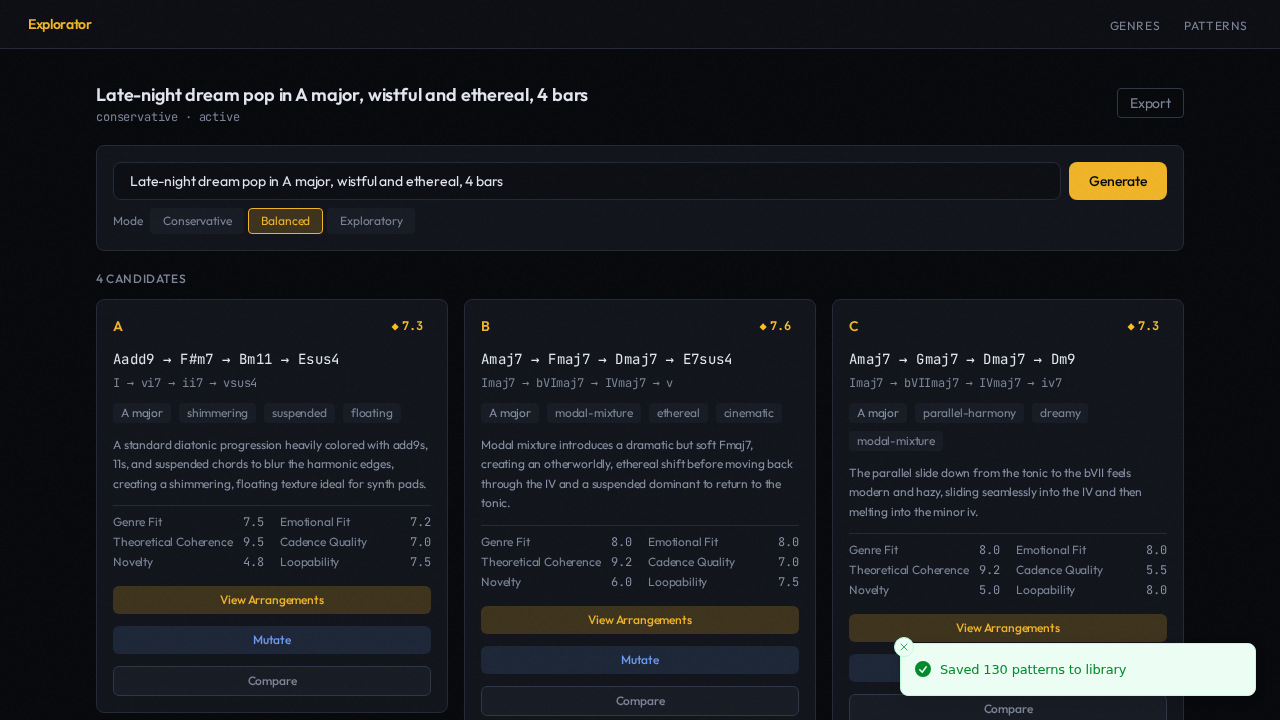
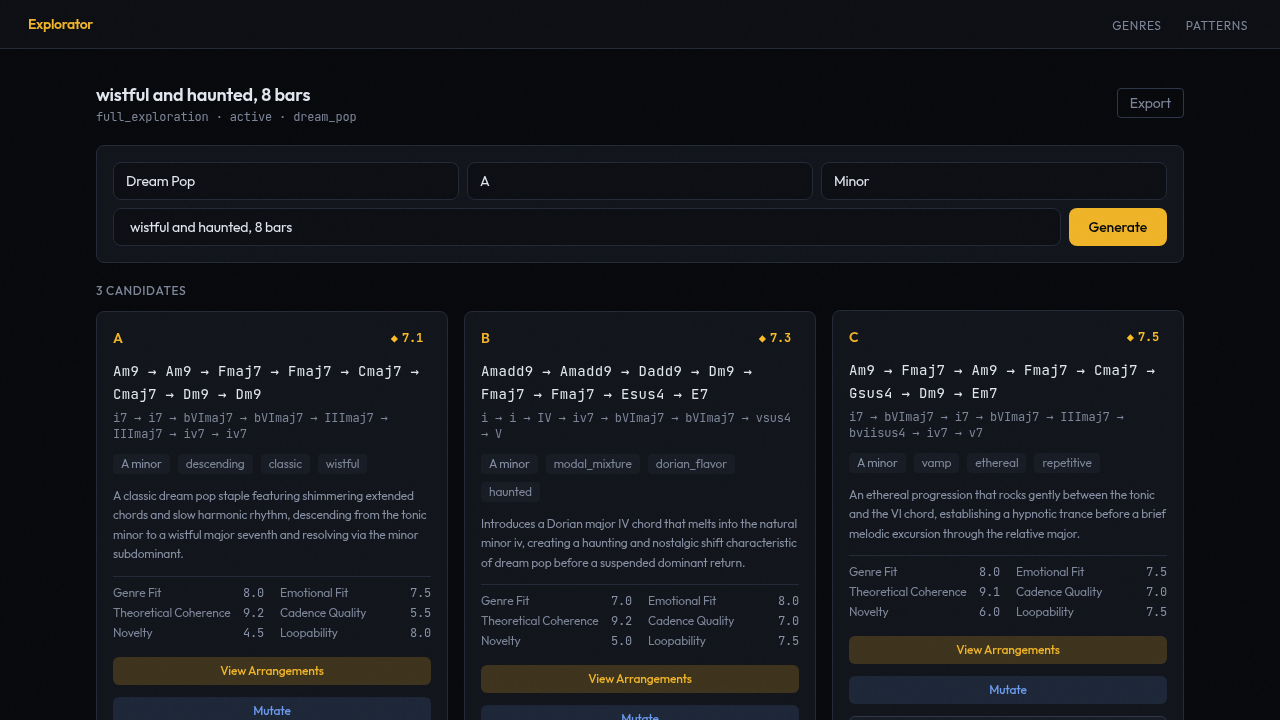
docs: refresh UX for genre/key/mode pickers + limited mode (#22)
The generation form changed (PR #21): the conservative/balanced/
exploratory mode toggle is gone — sessions now start by picking a
genre, key, and mode with an optional mood prompt. Update the README
flow text and screenshots to match.

- README: rewrite the "Create" bullet and "A first session" steps;
  drop the removed mode toggle.
- Regenerate 01-session-workspace.png (now shows the picker row).
- Add 00-dashboard.png (the new start-a-session form).
- Add 07-limited-mode.png (the Neo4j-optional limited-mode banner).

diff --git a/README.md b/README.md
@@ -7,11 +7,13 @@ A creative copilot for music producers. Generate chord progressions, realize the
 ## What it does
 
 **Create**
-- Translate creative prompts (*"dream pop in A major, wistful and haunted"*) into structured musical constraints
+- Choose genre, key, and mode up front, then steer with an optional mood prompt (*"wistful and haunted, 8 bars"*) — translated into structured musical constraints
 - Generate candidate chord progressions across 40+ genre profiles via Gemini Pro
 - Realize progressions into arrangements: voicings (open, close, drop-2, drop-3), genre-specific bass modes, groove patterns, optional melodic complement
 - Score arrangements across 12 dimensions (deterministic music theory + Gemini)
 - Mutate promising candidates: substitute, extend, transform — guided by user feedback
+
+![Start a session — pick genre, key, and mode, then add an optional mood prompt](docs/images/00-dashboard.png)
 
 ![Session workspace — generated candidates with chord symbols, intent tags, and scores](docs/images/01-session-workspace.png)
 
@@ -157,8 +159,8 @@ The pytest suite wipes the DB between tests, so it runs against a dedicated `neo
 
 ## A first session
 
-1. **Create a session** — prompt like *"Dream pop in A major, wistful and haunted"*.
-2. **Generate** (mode: conservative / balanced / exploratory). Watch the SSE pipeline progress; candidate cards appear with chord symbols, Roman numerals, scores, and rationale.
+1. **Create a session** — pick a genre, key, and mode, then optionally add a mood/feeling prompt (*"wistful and haunted, 8 bars"*).
+2. **Generate**. Watch the SSE pipeline progress (it surfaces the current round as the engine refines); candidate cards appear with chord symbols, Roman numerals, scores, and rationale.
 3. **Realize** a candidate → voicings, bass, groove, and melody are generated and evaluated. Three finalists surface with role badges.
 4. **Play** an arrangement with genre-matched synth. Mute/unmute voicing, bass, groove, melody independently.
 5. **Compare** two or three finalists in DAW-style lane view with synchronized transport.
@@ -201,6 +203,8 @@ The long-term-memory features require durable storage and are disabled in limite
 In-memory data is lost on backend restart — there is no durable non-Neo4j persistence by design.
 
 **Frontend limited-mode banner**
+
+![Limited mode — banner shown when the backend runs without Neo4j](docs/images/07-limited-mode.png)
 
 When the backend reports memory mode (via `GET /v1/capabilities`), the UI shows a "limited mode" banner under the header. The Patterns nav entry is hidden, the genre-research affordances are hidden (the genre *library* stays visible — it's served from YAML), session history and lineage are hidden in the session workspace, and star (curation) buttons are disabled. To get these features, bring up Neo4j with `make neo4j-up` and restart the backend.
 
